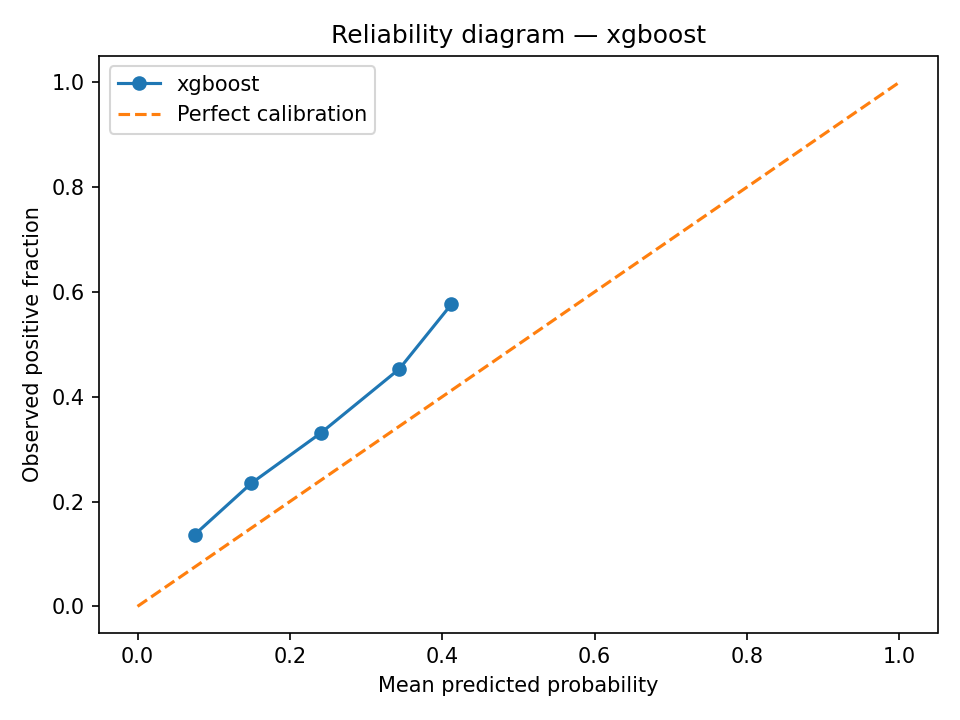
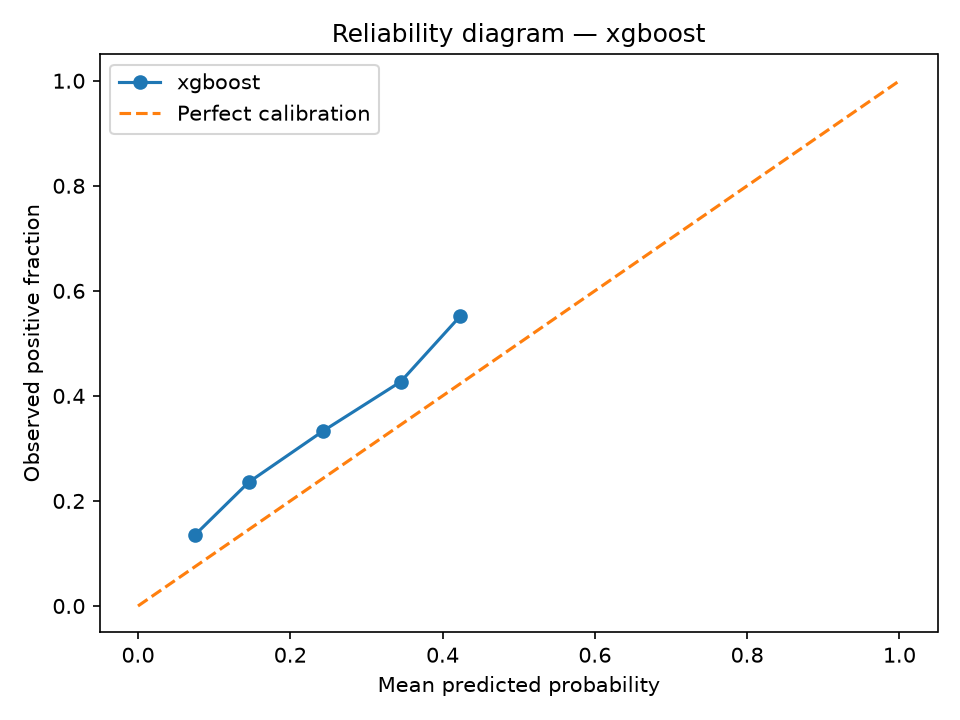
Improve flight delay prediction evaluation and documentation

diff --git a/scripts/evaluate.py b/scripts/evaluate.py
@@ -6,7 +6,9 @@ import sys
 from pathlib import Path
 
 import matplotlib
+
 matplotlib.use("Agg")
+
 import matplotlib.pyplot as plt
 import numpy as np
 import pandas as pd
@@ -20,7 +22,6 @@ from flight_delay.evaluation.metrics import (
     brier,
     expected_calibration_error,
     pr_auc,
-    recall_at_precision,
     roc_auc,
 )
 from flight_delay.models.persistence import load_model
@@ -28,7 +29,10 @@ from flight_delay.models.persistence import load_model
 
 def main():
     parser = argparse.ArgumentParser(description=__doc__)
-    parser.add_argument("--config", default=str(ROOT / "configs/config.yaml"))
+    parser.add_argument(
+        "--config",
+        default=str(ROOT / "configs/config.yaml"),
+    )
     parser.add_argument(
         "--model",
         choices=["logreg", "xgboost", "all"],
@@ -37,26 +41,43 @@ def main():
     args = parser.parse_args()
 
     config = load_config(args.config)
+
     data_dir = ROOT / config["paths"]["processed"]
     model_dir = ROOT / config["paths"]["models"]
     results_dir = ROOT / config["paths"]["results"]
     figures_dir = ROOT / config["paths"]["figures"]
+
     results_dir.mkdir(parents=True, exist_ok=True)
     figures_dir.mkdir(parents=True, exist_ok=True)
 
     test = pd.read_parquet(data_dir / "test.parquet")
-    spec = json.loads((data_dir / "feature_spec.json").read_text())
+    spec = json.loads(
+        (data_dir / "feature_spec.json").read_text()
+    )
+
     target = spec.get("target", "is_delayed")
     features = spec["numeric"] + spec["categorical"]
 
     X_test = test[features]
     y_test = test[target].astype(int)
-    min_precision = float(
-        config.get("evaluation", {}).get("operational_precision", 0.60)
-    )
-    n_bins = int(config.get("evaluation", {}).get("calibration_bins", 10))
 
-    names = ["logreg", "xgboost"] if args.model == "all" else [args.model]
+    min_precision = float(
+        config.get("evaluation", {}).get(
+            "operational_precision", 0.60
+        )
+    )
+    n_bins = int(
+        config.get("evaluation", {}).get(
+            "calibration_bins", 10
+        )
+    )
+
+    names = (
+        ["logreg", "xgboost"]
+        if args.model == "all"
+        else [args.model]
+    )
+
     rows = []
 
     for name in names:
@@ -64,23 +85,59 @@ def main():
         metadata_path = model_dir / f"{name}_metadata.json"
 
         if not model_path.is_file() or not metadata_path.is_file():
-            print(f"Skipping {name}: model or metadata not found. Train it first.")
+            print(
+                f"Skipping {name}: model or metadata not found. "
+                "Train it first."
+            )
             continue
 
         metadata = json.loads(metadata_path.read_text())
         model = load_model(str(model_path))
+
         probability = model.predict_proba(X_test)[:, 1]
 
+        # Apply the threshold selected using validation data.
         threshold = metadata.get("validation_threshold")
+
         if threshold is None:
-            test_recall, applied_threshold = 0.0, None
+            test_recall = None
+            applied_threshold = None
+            threshold_status = (
+                "No threshold met the target precision on validation"
+            )
         else:
-            predictions = (probability >= float(threshold)).astype(int)
-            tp = int(((predictions == 1) & (y_test.to_numpy() == 1)).sum())
-            fn = int(((predictions == 0) & (y_test.to_numpy() == 1)).sum())
-            test_recall = tp / (tp + fn) if tp + fn else 0.0
             applied_threshold = float(threshold)
 
+            predictions = (
+                probability >= applied_threshold
+            ).astype(int)
+
+            y_test_array = y_test.to_numpy()
+
+            tp = int(
+                (
+                    (predictions == 1)
+                    & (y_test_array == 1)
+                ).sum()
+            )
+            fn = int(
+                (
+                    (predictions == 0)
+                    & (y_test_array == 1)
+                ).sum()
+            )
+
+            test_recall = (
+                tp / (tp + fn)
+                if tp + fn
+                else 0.0
+            )
+
+            threshold_status = (
+                "Target precision threshold selected on validation"
+            )
+
+        # Calculate evaluation metrics.
         result = {
             "model": name,
             "calibration": metadata["calibration"],
@@ -89,46 +146,68 @@ def main():
             "test_recall_at_validation_threshold": test_recall,
             "validation_threshold": applied_threshold,
             "target_precision": min_precision,
+            "threshold_status": threshold_status,
             "test_brier": brier(y_test, probability),
             "test_ece": expected_calibration_error(
-                y_test, probability, n_bins=n_bins
+                y_test,
+                probability,
+                n_bins=n_bins,
             ),
             "rows_test": len(test),
             "positive_rate_test": float(y_test.mean()),
         }
+
         rows.append(result)
 
+        # Generate the reliability diagram.
         fraction_positive, mean_predicted = calibration_curve(
             y_test,
             probability,
             n_bins=n_bins,
             strategy="uniform",
         )
+
         plt.figure()
-        plt.plot(mean_predicted, fraction_positive, marker="o", label=name)
-        plt.plot([0, 1], [0, 1], linestyle="--", label="Perfect calibration")
+        plt.plot(
+            mean_predicted,
+            fraction_positive,
+            marker="o",
+            label=name,
+        )
+        plt.plot(
+            [0, 1],
+            [0, 1],
+            linestyle="--",
+            label="Perfect calibration",
+        )
         plt.xlabel("Mean predicted probability")
         plt.ylabel("Observed positive fraction")
         plt.title(f"Reliability diagram — {name}")
         plt.legend()
         plt.tight_layout()
+
         figure_path = figures_dir / f"{name}_reliability.png"
         plt.savefig(figure_path, dpi=150)
         plt.close()
-        print(f"Saved reliability diagram: {figure_path}")
 
+        print(f"Saved reliability diagram: {figure_path}")
         print(json.dumps(result, indent=2))
 
     if not rows:
         raise FileNotFoundError(
-            f"No trained models found in {model_dir}. Run scripts/train.py first."
+            f"No trained models found in {model_dir}. "
+            "Run scripts/train.py first."
         )
 
+    # Save the evaluation results.
     output = results_dir / "test_metrics.json"
     output.write_text(json.dumps(rows, indent=2))
-    pd.DataFrame(rows).to_csv(results_dir / "test_metrics.csv", index=False)
+
+    csv_output = results_dir / "test_metrics.csv"
+    pd.DataFrame(rows).to_csv(csv_output, index=False)
+
     print(f"Saved test metrics: {output}")
-    print(f"Saved test metrics CSV: {results_dir / 'test_metrics.csv'}")
+    print(f"Saved test metrics CSV: {csv_output}")
 
 
 if __name__ == "__main__":

diff --git a/src/flight_delay/features/calendar.py b/src/flight_delay/features/calendar.py
@@ -38,9 +38,9 @@ def add_calendar_features(df: pd.DataFrame) -> pd.DataFrame:
     """
     out = df.copy()
     date = out["date"]
-    out["dow"] = date.dt.dayofweek.astype("int8")  # 0 = Monday
+    out["dow"] = date.dt.day_of_week.astype("int8")  # 0 = Monday
     out["month"] = date.dt.month.astype("int8")
-    out["day_of_year"] = date.dt.dayofyear.astype("int16")
+    out["day_of_year"] = date.dt.day_of_year.astype("int16")
     out["is_weekend"] = (out["dow"] >= 5).astype("int8")
 
     # Pad the range so holidays just outside the data (e.g. 1 Jan of the next year) count.

diff --git a/tests/test_metrics.py b/tests/test_metrics.py
@@ -30,3 +30,16 @@ def test_ece_is_zero_for_perfect_calibration():
     )
 
     assert ece == pytest.approx(0.0)
+
+
+def test_recall_at_precision_returns_zero_when_target_unreachable():
+    """Return zero recall and infinity when no threshold meets the target."""
+    y_true = np.array([1, 0, 1, 0])
+    y_prob = np.array([0.8, 0.9, 0.6, 0.7])
+
+    recall, threshold = recall_at_precision(
+        y_true, y_prob, min_precision=1.0
+    )
+
+    assert recall == pytest.approx(0.0)
+    assert np.isinf(threshold)

diff --git a/src/flight_delay/models/xgboost_model.py b/src/flight_delay/models/xgboost_model.py
@@ -21,7 +21,7 @@ def build_xgboost(
         "eval_metric": params.get("eval_metric", "aucpr"),
         "early_stopping_rounds": int(params.get("early_stopping_rounds", 30)),
         "random_state": int(params.get("random_state", 42)),
-        "n_jobs": -1,
+        "n_jobs": int(params.get("n_jobs", 2)),
         "tree_method": "hist",
     }
 

diff --git a/README.md b/README.md
@@ -5,7 +5,7 @@
 
 ## Status
 
-Phase 1 scaffold. Modules contain stubs and TODOs; no model is implemented yet.
+An end-to-end flight delay prediction project with trained Logistic Regression and XGBoost models, probability calibration, evaluation reports, and automated tests.
 
 | Phase 1 criterion | Where it lives |
 |---|---|
@@ -21,8 +21,8 @@ Phase 1 scaffold. Modules contain stubs and TODOs; no model is implemented yet.
 
 ## Problem definition
 
-- **Target:** `is_delayed = 1` if arrival delay ≥ 15 min (BTS on-time convention), else 0. Cancelled/diverted flights: TODO decide (exclude vs. treat as delayed) and document.
-- **Decision time:** TODO fix in `configs/config.yaml` (default suggestion: end of day D-1). Every feature must be computable at that moment — see `docs/leakage_policy.md`.
+- **Target:** `is_delayed = 1` if arrival delay ≥ 15 min (BTS on-time convention), else 0. Cancelled flights are excluded from the modelling dataset.
+- **Decision time:** D-1 (the day before departure), as configured in `configs/config.yaml`. Every feature must be computable at that moment — see `docs/leakage_policy.md`.
 - **Split:** chronological by date (train → validation → test). No random shuffling.
 - **Metrics:** PR AUC (primary, class-imbalanced), ROC AUC, recall at a chosen operational precision, Brier score, ECE and reliability diagrams.
 
@@ -56,15 +56,31 @@ pip install -e .
 pytest
 ```
 
-## Pipeline (planned)
+## Current workflow
+
+Activate the virtual environment and run the test suite:
 
 ```bash
-python scripts/download_data.py      # TODO
-python scripts/build_features.py     # TODO
-python scripts/train.py --model logreg   # TODO
-python scripts/train.py --model xgboost  # TODO
-python scripts/evaluate.py           # TODO
+source .venv/bin/activate
+pytest -q
 ```
+
+### Evaluation results
+
+Held-out test-set results:
+
+| Model | PR-AUC | ROC-AUC |
+|---|---:|---:|
+| Logistic Regression | 0.3962 | 0.6619 |
+| XGBoost | 0.3887 | 0.6540 |
+
+Logistic Regression performs slightly better on both reported metrics. PR-AUC is useful for evaluating performance when the classes are imbalanced.
+
+Detailed reports are available in `reports/results/`, including test metrics, threshold analysis, calibration comparisons, feature ablation, and monthly test metrics.
+
+### Important limitation
+
+The delay rate differs between the validation and test periods. This temporal distribution shift can affect threshold selection and generalisation. Thresholds selected on validation data should be evaluated carefully before operational use.
 
 ## Phase 2 (later)
 
